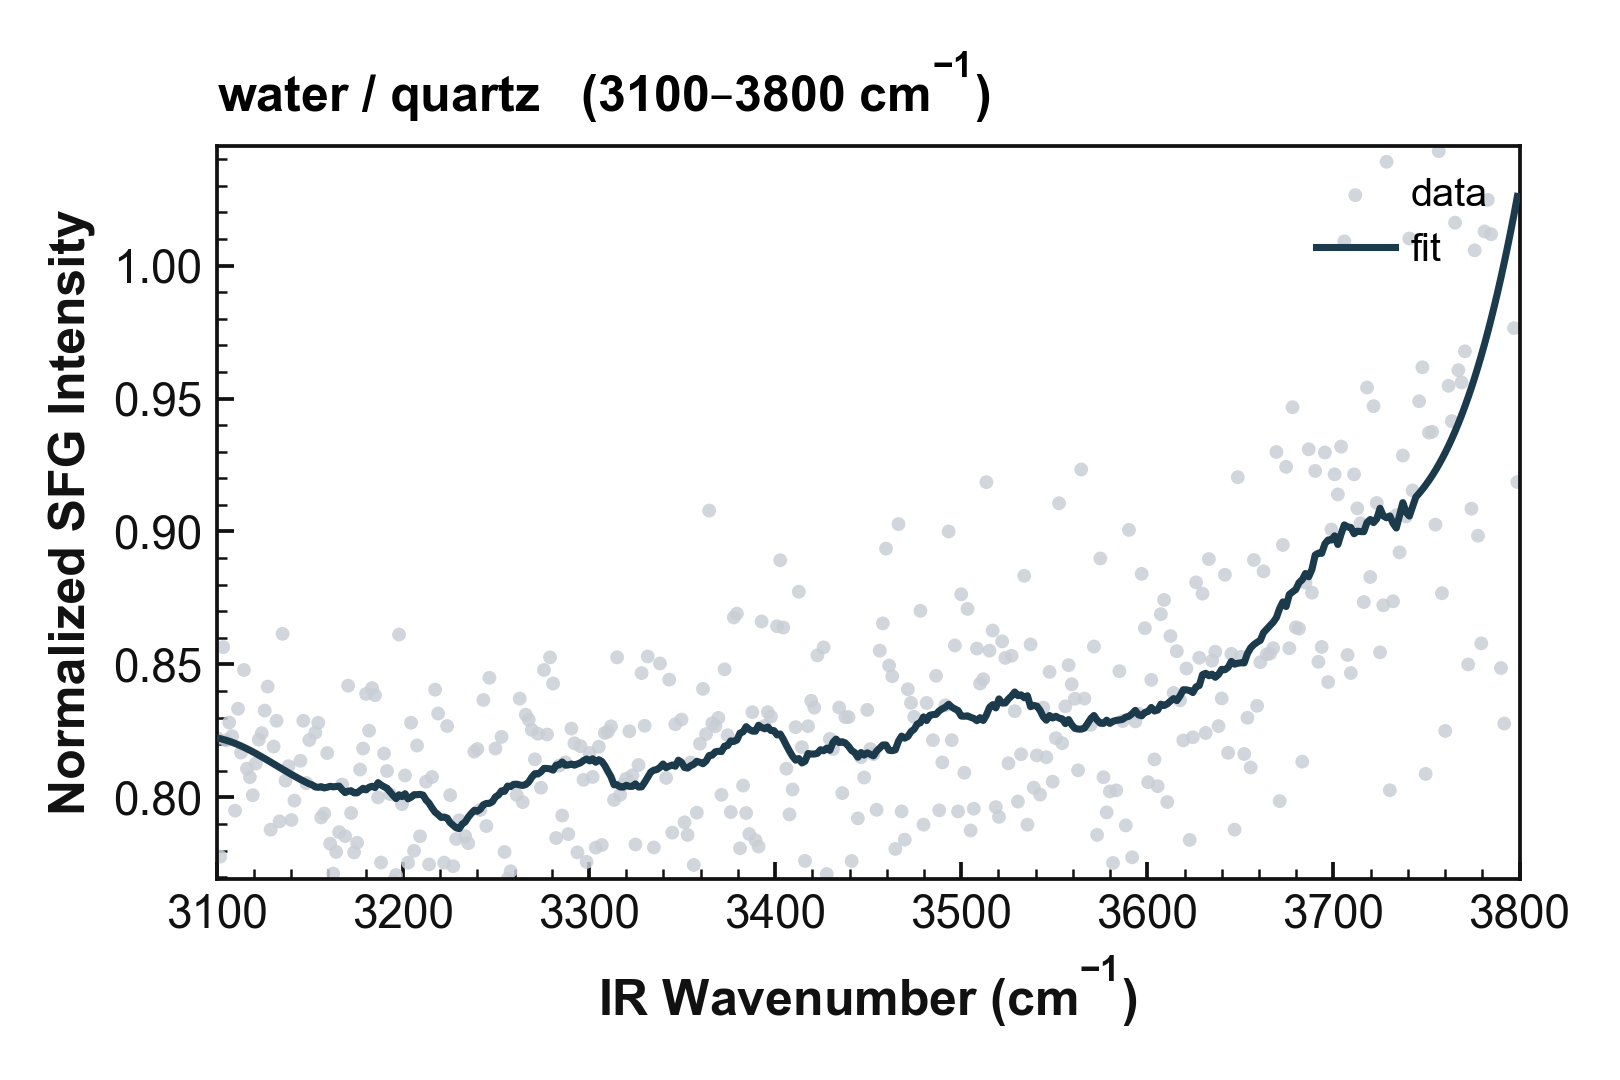
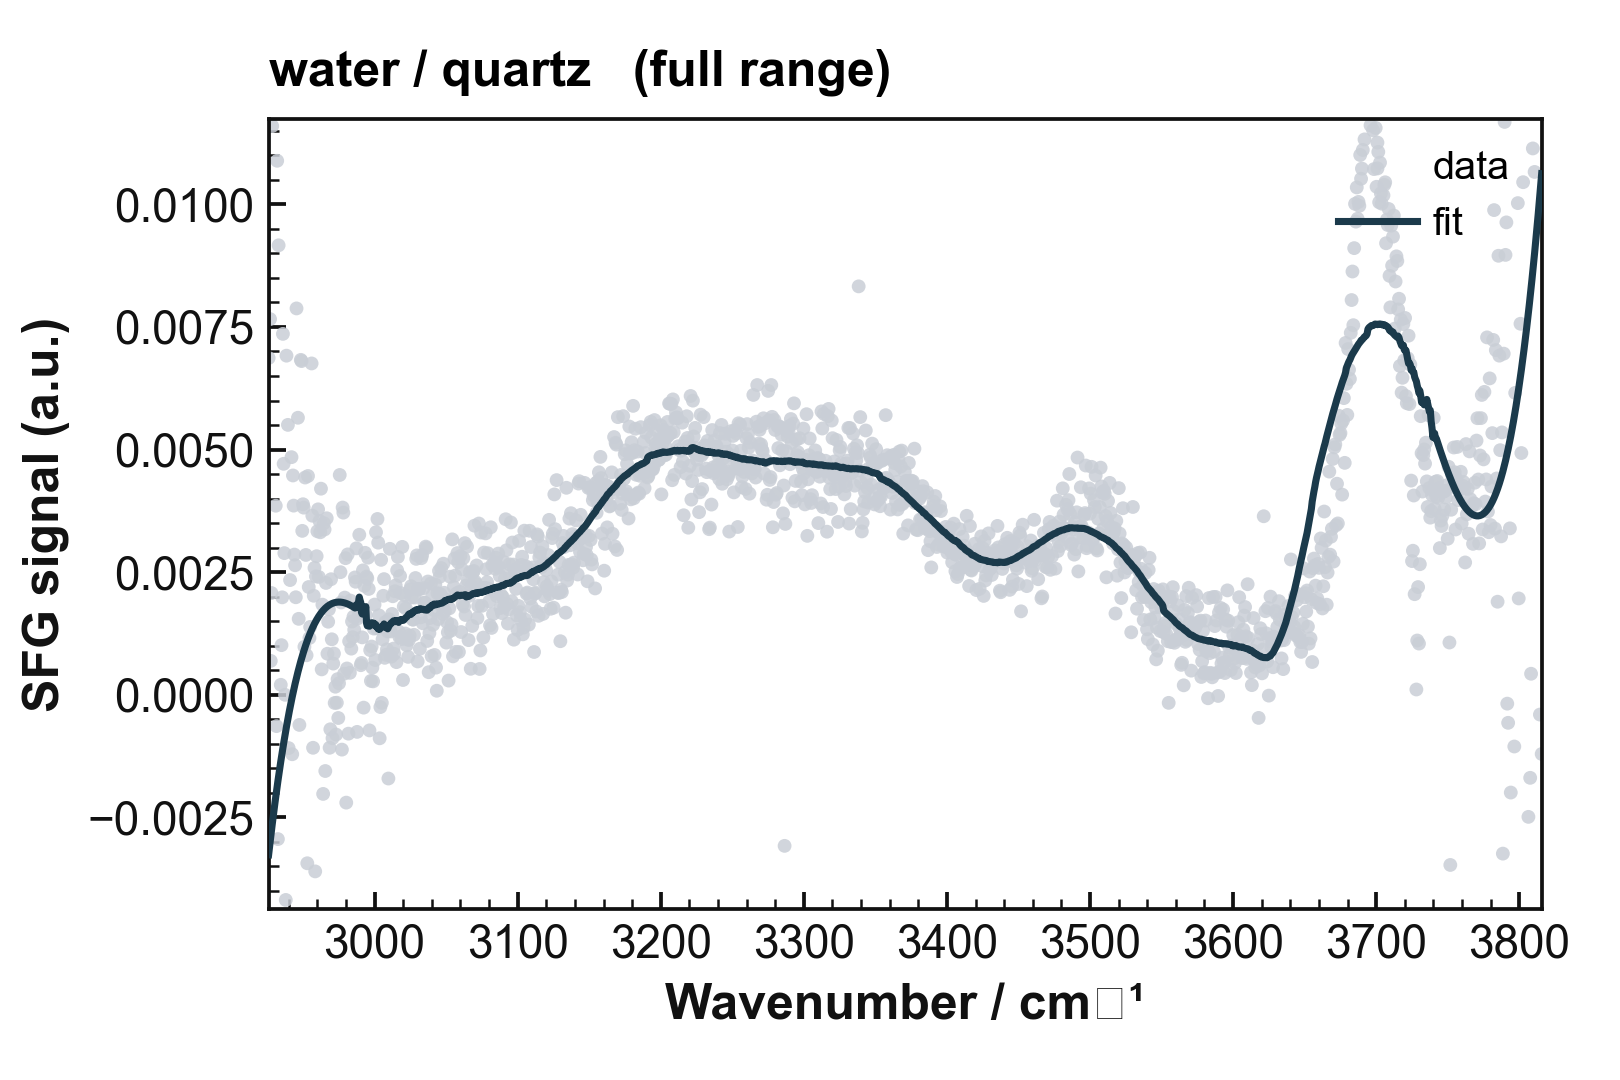
polish: cleaner axis labels + real water README screenshot
- Axis labels: 'Wavenumber / cm⁻¹' (Unicode superscript, calmer than math mode)
- Y-axis: 'SFG signal (a.u.)'
- README screenshot regenerated from real 20251120_SFG_Water normalised data

Changed region(s): [[0.0, 0.0306, 0.9877, 0.9472], [0.4321, 0.55, 0.4938, 0.5806]]

diff --git a/sfg_processor.py b/sfg_processor.py
@@ -237,7 +237,7 @@ def _plot_nature(norm_df, sample, ref_sample, save_path, xlim=None):
         xlim = (float(xs.min()), float(xs.max()))
         title_range = "full range"
     else:
-        title_range = f"{xlim[0]}–{xlim[1]} cm$^{{-1}}$"
+        title_range = f"{xlim[0]}–{xlim[1]} cm⁻¹"
 
     fig, ax = plt.subplots(figsize=(5.4, 3.6))
     ax.scatter(xs, ys, s=11, c="#c9ced6", edgecolors="none", alpha=0.85,
@@ -245,8 +245,8 @@ def _plot_nature(norm_df, sample, ref_sample, save_path, xlim=None):
     ax.plot(xs, yf, color="#1b3a4b", linewidth=1.7, zorder=3, label="fit")
     ax.set_xlim(xlim)
     ax.set_ylim(y_lo, y_hi)
-    ax.set_xlabel(r"IR Wavenumber (cm$^{-1}$)")
-    ax.set_ylabel("Normalized SFG Intensity")
+    ax.set_xlabel("Wavenumber / cm⁻¹")
+    ax.set_ylabel("SFG signal (a.u.)")
     ax.set_title(f"{sample} / {ref_sample}   ({title_range})",
                  loc="left", pad=8)
     ax.minorticks_on()